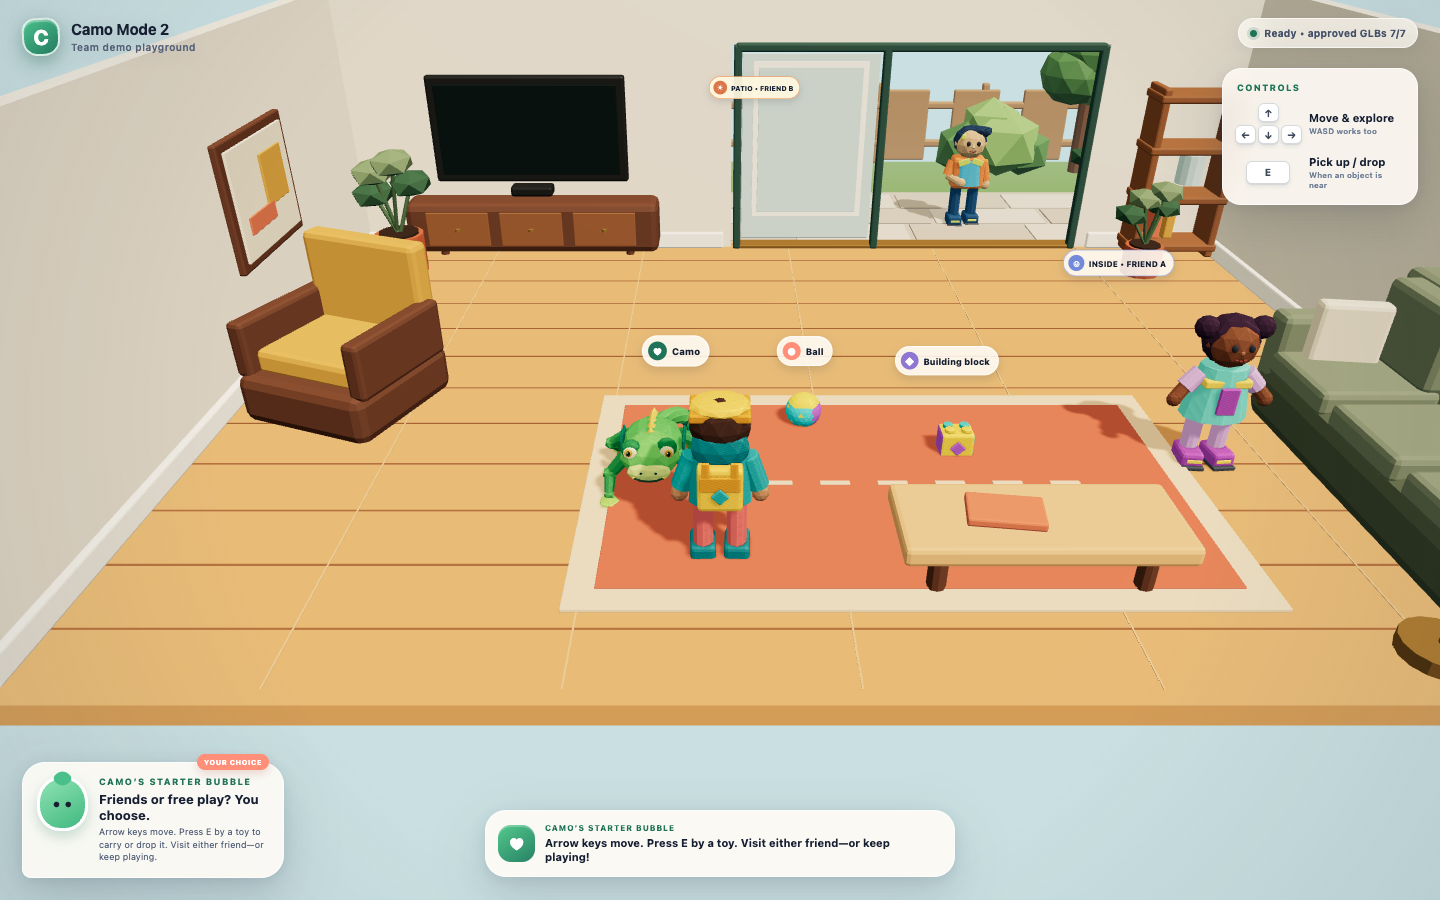
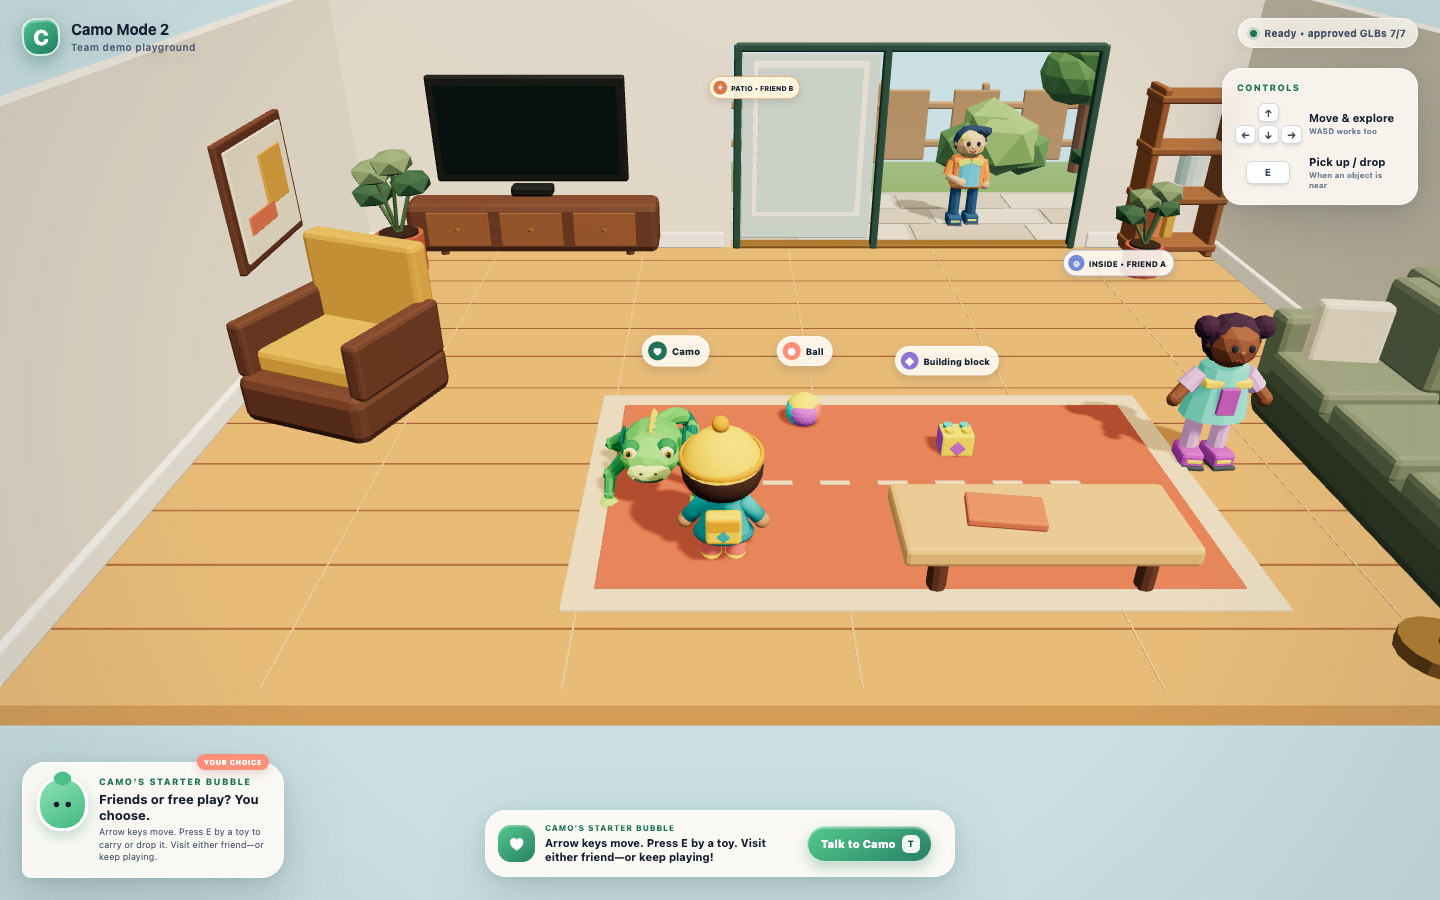
Document the two player styles and refresh the review captures
The earlier menu captures showed a player that no longer exists. They are
replaced by captures of the style choice, each character in customization
and in the playroom, the restored look, and the phone layout.

diff --git a/README.md b/README.md
@@ -12,16 +12,20 @@ npm install && npm run dev
 
 Open [http://localhost:4173](http://localhost:4173). Vite also prints a network URL for testing on another device.
 
-The game opens on a start menu. **Play** leads to character customization on a live preview of the child's character:
+The game opens on a start menu. **Play** leads to a style choice between two characters, each shown live on its card:
+- **Cartoon**: a round-headed, stubby-limbed character with a painted-on face;
+- **Realistic**: a child with real proportions, a modeled face, and hair.
+
+Picking one leads to character customization on a live preview of that character. Both styles offer the same choices:
 - Boy or girl, which changes only the hair;
 - skin tone;
 - outfit colors;
 - trousers or skirt;
 - beanie or head scarf.
 
-**Let's play!** enters the playroom wearing that look. The choice is saved in the browser's `localStorage` and never leaves the machine.
+**Let's play!** enters the playroom as that character, which idles and walks with its own animation. The style and the look are saved in the browser's `localStorage` and never leave the machine.
 
-For development, add `?skipMenu=1` (for example [http://localhost:4173/?skipMenu=1](http://localhost:4173/?skipMenu=1)) to skip both menus and load straight into the playroom with the saved or default look.
+For development, add `?skipMenu=1` (for example [http://localhost:4173/?skipMenu=1](http://localhost:4173/?skipMenu=1)) to skip every menu and load straight into the playroom with the saved or default style and look.
 
 **No API keys are required.** With no `.env` present the keyless mock brain drives the conversation from authored offline lines, so the full path — approach a character, open the panel, exchange turns, watch the story move — works out of the box.
 
@@ -63,6 +67,8 @@ The bundled approved GLBs load by default. The app starts with procedural backup
 
 See [`docs/asset-contract.md`](docs/asset-contract.md) for the authoritative coordinates, asset URLs, units, orientation, and loader behavior.
 
+All of the art is generated by the scripts under `blender/`. The realistic player is the one model built from outside assets, all of them CC0; [`docs/third-party-assets.md`](docs/third-party-assets.md) lists each with its source and license.
+
 ## Validation
 
 ```sh
@@ -71,7 +77,7 @@ npm run build
 npm run preview
 ```
 
-The production preview is also served at `http://localhost:4173`; the dialogue proxy is installed on it as well as on the dev server. `window.__CAMO_DEMO__.getState()` provides a read-only smoke-test snapshot of readiness, player and entity positions, carried item, active prompt, asset modes, dialogue state, and the chosen look. It exists once the playroom has started, so use `?skipMenu=1` for scripted checks.
+The production preview is also served at `http://localhost:4173`; the dialogue proxy is installed on it as well as on the dev server. `window.__CAMO_DEMO__.getState()` provides a read-only smoke-test snapshot of readiness, player and entity positions, carried item, active prompt, asset modes, dialogue state, the chosen style and look, and what the player model is doing (`idle`, `walk`, or `stand-in`). It exists once the playroom has started, so use `?skipMenu=1` for scripted checks.
 
 A research inspector — current beat, live emotion vector, which edge fired last turn and why, and the last assembled prompt — is available with the backtick key or `?debug=1`. It is off by default and never appears in a demo run.
 

diff --git a/docs/review/README.md b/docs/review/README.md
@@ -10,6 +10,11 @@ Camo and the player together on the carpet left of the coffee table, Friend A
 inside beside the couch, Friend B on the patio through the doorway, and both
 pickup props on the rug.
 
+The dialogue captures below predate the two player styles and still show the
+earlier chunky player. The dialogue layer itself is unchanged;
+[`menus/19-realistic-mock-dialogue.png`](menus/19-realistic-mock-dialogue.png)
+shows it with a current player.
+
 ## [`dialogue-panel.png`](dialogue-panel.png)
 
 A conversation with Camo, four turns in, running on the **keyless mock brain**
@@ -59,23 +64,33 @@ character was standing on when it spoke, not the one it landed in.
 
 ---
 
-## Menus and character customization
+## Menus, styles, and character customization
 
 The frames in [`menus/`](menus/) were captured on the keyless mock brain with
-`chrome-devtools-axi`, at 1440 × 900 and at a 390 × 844 phone viewport.
+`chrome-devtools-axi`, at 1440 × 900 and at a 390 × 844 phone viewport. The
+close-ups are crops of the same page at twice the pixel density.
 
-- `01`–`04`: the start menu, then the customization screen with the default
-  look, Girl · skirt · beanie, and Boy · trousers · head scarf.
-- [`combinations-front.png`](menus/combinations-front.png) and
-  [`combinations-back.png`](menus/combinations-back.png): all eight Boy/Girl ×
-  trousers/skirt × beanie/scarf combinations, across five skin tones and six
-  outfits. These were reviewed for age-appropriateness:
-  - one shared child body;
-  - skirts at or below the knee over leggings;
-  - a full head covering that frames the face.
-- `05`–`11`: face close-ups on the lightest, middle, and darkest tones, on
-  desktop and phone. They show that the eyes and mouth stay readable.
-- `12`: the look restored after a reload.
-- `13`–`15`: in game, rear and front, and a Camo conversation after the menus.
-- `16`: `?skipMenu=1`.
-- `17`–`19`: the phone layout.
+- `01`, `02`: the start menu, then the style choice. Each card shows its
+  character live, idling, in the child's current look.
+- `03`–`05`: the cartoon player in customization: the default look, Girl ·
+  skirt · beanie, and Boy · trousers · head scarf.
+- `06b`–`08`: the cartoon player in the playroom from behind and from the
+  front, and mid-stride in its walk clip.
+- `09`: after a reload the style and look are restored, and both cards wear
+  the look.
+- `11`–`13`: the realistic player in customization: the default look, Girl ·
+  skirt · beanie, and Girl · skirt · head scarf.
+- `15b`–`17`: the realistic player in the playroom from behind and from the
+  front, and mid-stride.
+- `18`, `19`: `?skipMenu=1` enters the room in the saved style, and a Camo
+  conversation on the mock brain.
+- `20`: a look saved before styles existed loads as the cartoon player with
+  every choice kept.
+- `21`, `22`: the phone layout of the style choice and of customization.
+
+Both characters were reviewed for age-appropriateness in every combination:
+- one shared child body per style, with Boy and Girl differing only in hair;
+- everyday clothes that cover the torso, arms, and legs;
+- skirts at or below the knee over leggings;
+- a full head covering that frames the face;
+- on the realistic player, a soft closed-mouth smile rather than a blank face.

diff --git a/docs/presenter-notes.md b/docs/presenter-notes.md
@@ -2,7 +2,7 @@
 
 ## Before presenting
 
-- Use a laptop viewport near 1440 × 900 and start at `http://localhost:4173`. Press **Play**, pick a look, then **Let's play!**. To go straight into the room with the last saved look, start at `http://localhost:4173/?skipMenu=1` instead.
+- Use a laptop viewport near 1440 × 900 and start at `http://localhost:4173`. Press **Play**, pick **Cartoon** or **Realistic**, pick a look, then **Let's play!**. To go straight into the room with the last saved style and look, start at `http://localhost:4173/?skipMenu=1` instead.
 - Wait for **Ready • approved GLBs 7/7**. If a GLB fails, the demo remains usable but the status pill reports a fallback.
 - Reload to reset the player, props, and opening composition. A plain reload returns to the start menu; with `?skipMenu=1` it goes straight back into the room.
 
